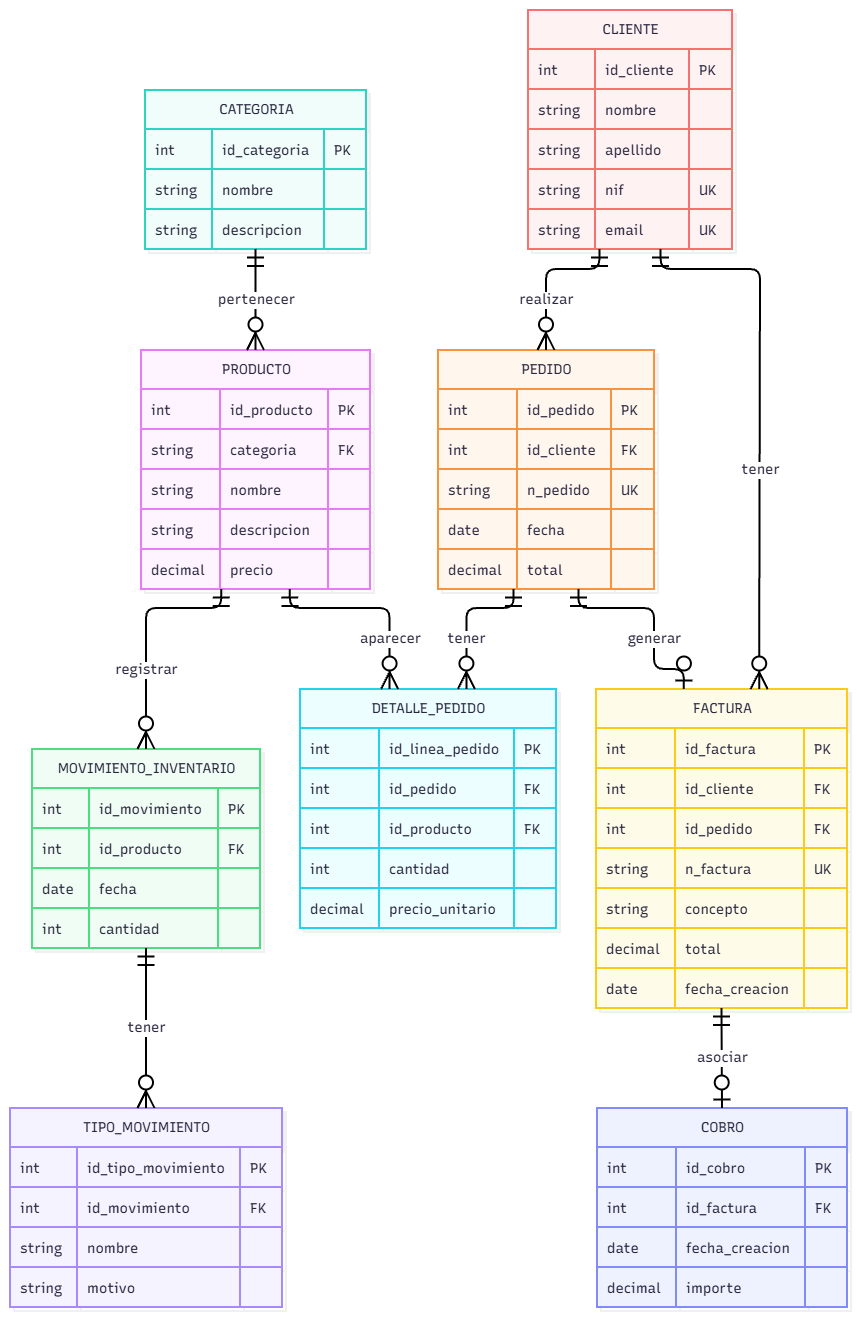
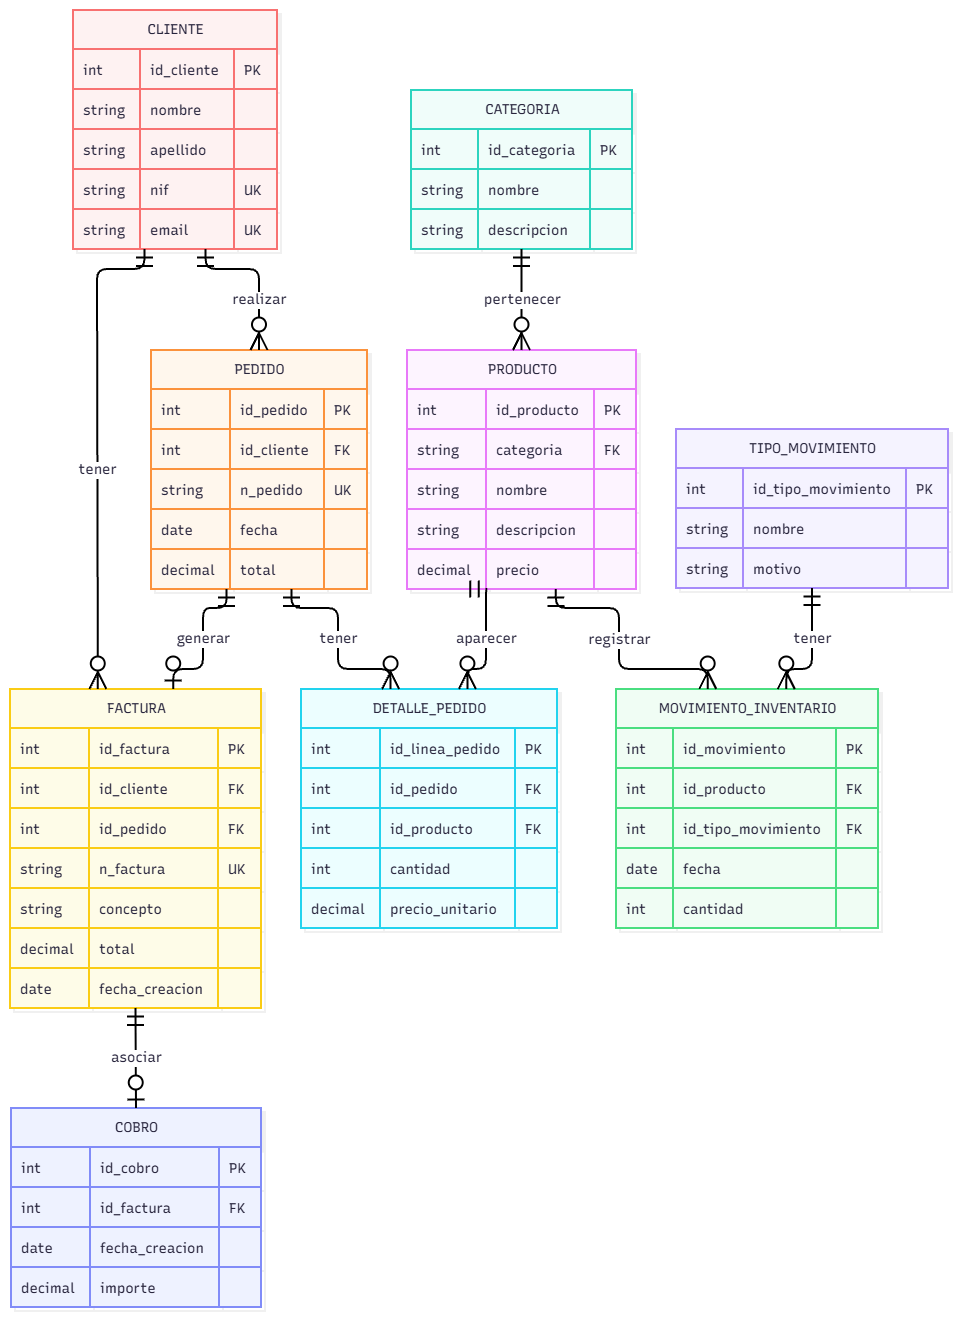
feat: implementar clase Meta de los modelos

Changed region(s): [[0.0, 0.0, 1.0, 0.9962]]

diff --git a/backend/templates/billing/cliente_list.html b/backend/templates/billing/cliente_list.html
@@ -1,0 +1,14 @@
+{% extends "common/base_intranet.html" %}
+
+{% block main_content %}
+<div class="container">
+    <h1>Lista de {{ object.verbose_name_plural }}</h1>
+    <ul class="list-group mt-3">
+    {% for cliente in object_list %}
+        <a href="{% url 'cliente_detail' pk=cliente.id %}" class="list-group-item list-group-item-action">{{ cliente }}</a>
+    {% empty %}
+        <p>No existen clientes.</p>
+    {% endfor %}
+    </ul>
+</div>
+{% endblock main_content %}

diff --git a/backend/templates/billing/factura_list.html b/backend/templates/billing/factura_list.html
@@ -1,0 +1,15 @@
+{% extends "common/base_intranet.html" %}
+
+
+{% block main_content %}
+<div class="container">
+    <h1>Lista de facturas</h1>
+    <ul class="list-group mt-3 ">
+    {% for factura in object_list %}
+        <a href="{% url 'factura_detail' factura.id %}" class="list-group-item list-group-item-action">{{ factura }}</a>
+    {% empty %}
+        <p>No existen facturas.</p>
+    {% endfor %}
+    </ul>
+</div>
+{% endblock main_content %}

diff --git a/backend/templates/billing/cobro_list.html b/backend/templates/billing/cobro_list.html
@@ -1,0 +1,15 @@
+{% extends "common/base_intranet.html" %}
+
+
+{% block main_content %}
+<div class="container">
+    <h1>Lista de cobros</h1>
+    <ul class="list-group mt-3">
+    {% for cobro in object_list %}
+        <a href="{% url 'cobro_detail' cobro.id %}" class="list-group-item list-group-item-action">{{ cobro }}</a>
+    {% empty %}
+        <p>No existen cobros.</p>
+    {% endfor %}
+    </ul>
+</div>
+{% endblock main_content %}

diff --git a/backend/templates/500.html b/backend/templates/500.html
@@ -1,0 +1,8 @@
+{% extends 'comunidades/base_website.html' %}
+
+
+{% block content %}
+
+<h1>Error 500. Error de servidor, se nos ha notificado, pruebe más tarde.</h1>
+
+{% endblock %}

diff --git a/backend/templates/billing/factura_detail.html b/backend/templates/billing/factura_detail.html
@@ -1,0 +1,11 @@
+{% extends "common/base_intranet.html" %}
+
+
+{% block main_content %}
+<h1>Detalle de la factura</h1>
+
+<p>
+    {{object}}
+</p>
+
+{% endblock main_content %}

diff --git a/backend/templates/billing/cliente_detail.html b/backend/templates/billing/cliente_detail.html
@@ -1,0 +1,9 @@
+{% extends "common/base_intranet.html" %}
+
+
+{% block main_content %}
+<h1>Detalle de cliente</h1>
+<h6>{{object.nombre}}</h6>
+
+
+{% endblock main_content %}

diff --git a/backend/templates/billing/cobro_detail.html b/backend/templates/billing/cobro_detail.html
@@ -1,0 +1,11 @@
+{% extends "common/base_intranet.html" %}
+
+
+{% block main_content %}
+<h1>Detalle del cobro</h1>
+
+<p>
+    {{object}}
+</p>
+
+{% endblock main_content %}

diff --git a/backend/templates/404.html b/backend/templates/404.html
@@ -1,0 +1,8 @@
+{% extends 'portfolio/base.html' %}
+
+
+{% block content %}
+
+<h1>Error 404. Página no encontrada.</h1>
+
+{% endblock %}

diff --git a/backend/templates/400.html b/backend/templates/400.html
@@ -1,0 +1,8 @@
+{% extends 'portfolio/base.html' %}
+
+
+{% block content %}
+
+<h1>Error 400. Vuelva a intentarlo.</h1>
+
+{% endblock %}

diff --git a/backend/templates/403.html b/backend/templates/403.html
@@ -1,0 +1,8 @@
+{% extends 'portfolio/base.html' %}
+
+
+{% block content %}
+
+<h1>Error 403. Permiso denegado.</h1>
+
+{% endblock %}

diff --git a/backend/core/models.py b/backend/core/models.py
@@ -8,24 +8,46 @@ class Categoria(models.Model):
     nombre = models.CharField(max_length=256, verbose_name='Nombre')
     descripcion = models.TextField(verbose_name='Descripcion', blank=True, default="",)
 
+    # UD3.3.c
+    class Meta:
+        verbose_name = 'Categoria'
+        verbose_name_plural = 'Categorias'
+        ordering = ['nombre']
+
+    # UD3.3.b
     def __str__(self):
         return self.nombre
 
 class Producto(models.Model):
     nombre = models.CharField(max_length=256, verbose_name='Nombre')
+    sku = models.CharField(max_length=20, verbose_name='SKU', unique=True) # UD3.3.c
     categoria = models.ForeignKey("core.Categoria", on_delete=models.PROTECT)
     descripcion = models.TextField(verbose_name='Descripcion', blank=True, default="")
     precio = models.DecimalField(max_digits=10, decimal_places=2, default=Decimal("0.00"), verbose_name='Precio')
 
+    # UD3.3.c
+    class Meta:
+        verbose_name = 'Producto'
+        verbose_name_plural = 'Productos'
+        ordering = ['nombre']
+
+    # UD3.3.b
     def __str__(self):
         return self.nombre + " (" + str(self.categoria) + ")"
 
 class Pedido(models.Model):
     cliente = models.ForeignKey("billing.Cliente", on_delete=models.PROTECT)
-    n_pedido = models.CharField(max_length=20, unique=True)
+    n_pedido = models.CharField(max_length=20, unique=True) # UD3.3.c
     fecha = models.DateField(default=now, verbose_name='Fecha')
     total = models.DecimalField(max_digits=10, decimal_places=2, default=Decimal("0.00"), verbose_name='Total')
 
+    # UD3.3.c
+    class Meta:
+        verbose_name = 'Pedido'
+        verbose_name_plural = 'Pedidos'
+        ordering = ['-fecha']
+
+    # UD3.3.b
     def __str__(self):
         return str(self.cliente) + " - " + self.n_pedido
     
@@ -35,21 +57,45 @@ class DetallePedido(models.Model):
     cantidad = models.PositiveIntegerField(verbose_name='Cantidad')
     precio_unitario = models.DecimalField(max_digits=10, decimal_places=2, default=Decimal("0.00"), verbose_name='Precio Unitario')
 
+    # UD3.3.c
+    class Meta:
+        verbose_name = 'Detalle de Pedido'
+        verbose_name_plural = 'Detalles de Pedido'
+        ordering = ['pedido', 'producto']
+        unique_together = ('pedido', 'producto')
+
+    # UD3.3.b
     def __str__(self):
         return str(self.pedido) + " - " + str(self.producto) + " (" + str(self.cantidad) + ")"
     
-class MovimientoInventario(models.Model):
-    producto = models.ForeignKey(Producto, on_delete=models.PROTECT)
-    fecha = models.DateField(default=now, verbose_name='Fecha')
-    cantidad = models.PositiveIntegerField(verbose_name='Cantidad')
-
-    def __str__(self):
-        return str(self.fecha) + " - " + str(self.producto) + " (" + str(self.cantidad) + ")"
-
 class TipoMovimiento(models.Model):
-    movimiento = models.ForeignKey(MovimientoInventario, on_delete=models.PROTECT)
+    # movimiento = models.ForeignKey(MovimientoInventario, on_delete=models.PROTECT)
     nombre = models.CharField(max_length=256, verbose_name='Nombre')
     motivo = models.CharField(max_length=256, verbose_name='Motivo')
 
+    # UD3.3.c
+    class Meta:
+        verbose_name = 'Tipo de Movimiento'
+        verbose_name_plural = 'Tipos de Movimiento'
+        ordering = ['nombre']
+
+    # UD3.3.b
     def __str__(self):
         return self.nombre + " (" + self.motivo + ")"
+
+class MovimientoInventario(models.Model):
+    producto = models.ForeignKey(Producto, on_delete=models.PROTECT)
+    tipo = models.ForeignKey(TipoMovimiento, on_delete=models.PROTECT)
+    fecha = models.DateField(default=now, verbose_name='Fecha')
+    cantidad = models.PositiveIntegerField(verbose_name='Cantidad')
+
+    # UD3.3.c
+    class Meta:
+        verbose_name = 'Movimiento de Inventario'
+        verbose_name_plural = 'Movimientos de Inventario'
+        ordering = ['-fecha']
+
+    # UD3.3.b
+    def __str__(self):
+        return str(self.fecha) + " - " + str(self.tipo) + " - " + str(self.producto) + " (" + str(self.cantidad) + ")"
+

diff --git a/backend/billing/models.py b/backend/billing/models.py
@@ -7,20 +7,33 @@ from django.utils.timezone import now
 class Cliente(models.Model):
     nombre = models.CharField(max_length=256, verbose_name='Nombre')
     apellidos = models.CharField(max_length=512, verbose_name='Apellidos')
-    nif = models.CharField(max_length=20, verbose_name='NIF', unique=True)
+    nif = models.CharField(max_length=20, verbose_name='NIF', unique=True) # UD3.3.c
     email = models.EmailField(unique=True)
 
+    # UD3.3.c
+    class Meta:
+        verbose_name = 'Cliente'
+        verbose_name_plural = 'Clientes'
+        ordering = ['apellidos', 'nombre']
+
+    # UD3.3.b
     def __str__(self):
         return self.nombre + " " + self.apellidos + " (" + self.nif + ")"
 
 class Factura(models.Model):
     cliente = models.ForeignKey(Cliente, on_delete=models.PROTECT)
-   # pedido = models.ForeignKey("core.Pedido", on_delete=models.PROTECT, null=True, blank=True)
-    n_factura = models.CharField(max_length=20, verbose_name='Nº Factura', unique=True)
+    n_factura = models.CharField(max_length=20, verbose_name='Nº Factura', unique=True) # UD3.3.c
     concepto = models.TextField(verbose_name='Concepto')
     fecha = models.DateField(default=now, verbose_name='Fecha')
     total = models.DecimalField(max_digits=10, decimal_places=2, default=0, verbose_name='Total')
 
+    # UD3.3.c
+    class Meta:
+        verbose_name = 'Factura'
+        verbose_name_plural = 'Facturas'
+        ordering = ['-fecha']
+
+    # UD3.3.b
     def __str__(self):
         return str(self.cliente) + " - " + self.n_factura
 
@@ -29,5 +42,12 @@ class Cobro(models.Model):
     fecha = models.DateField(default=now, verbose_name='Fecha')
     importe = models.DecimalField(max_digits=10, decimal_places=2, default=0)
 
+    # UD3.3.c
+    class Meta:
+        verbose_name = 'Cobro'
+        verbose_name_plural = 'Cobros'
+        ordering = ['-fecha']
+
+    # UD3.3.b
     def __str__(self):
         return str(self.factura.n_factura) + " - " + str(self.importe)
